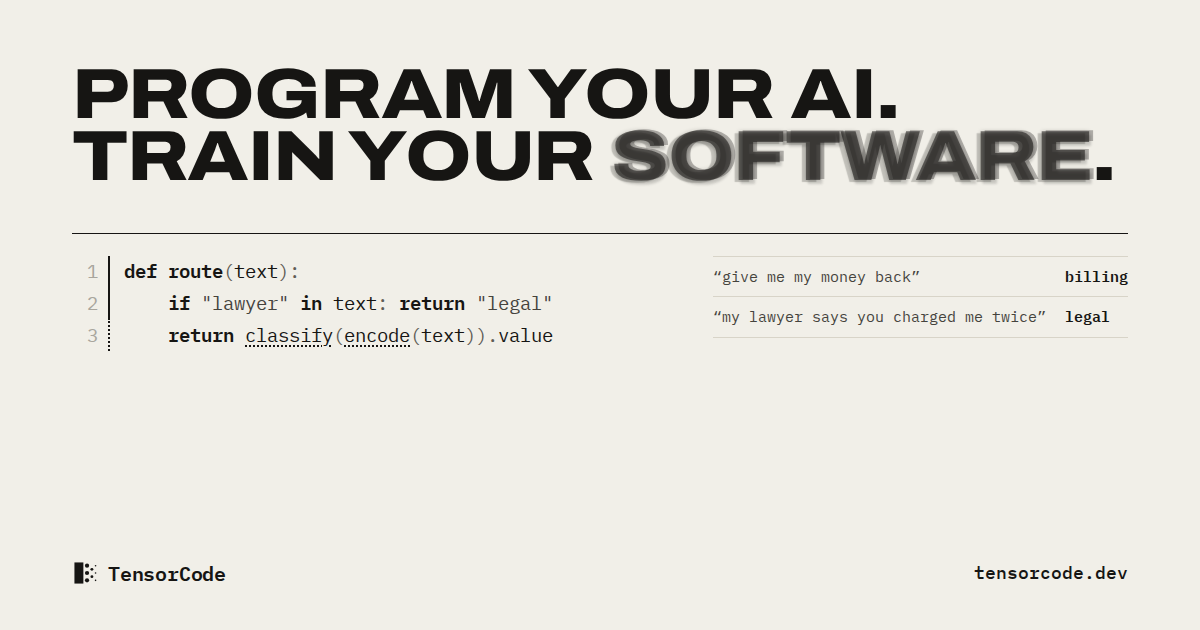
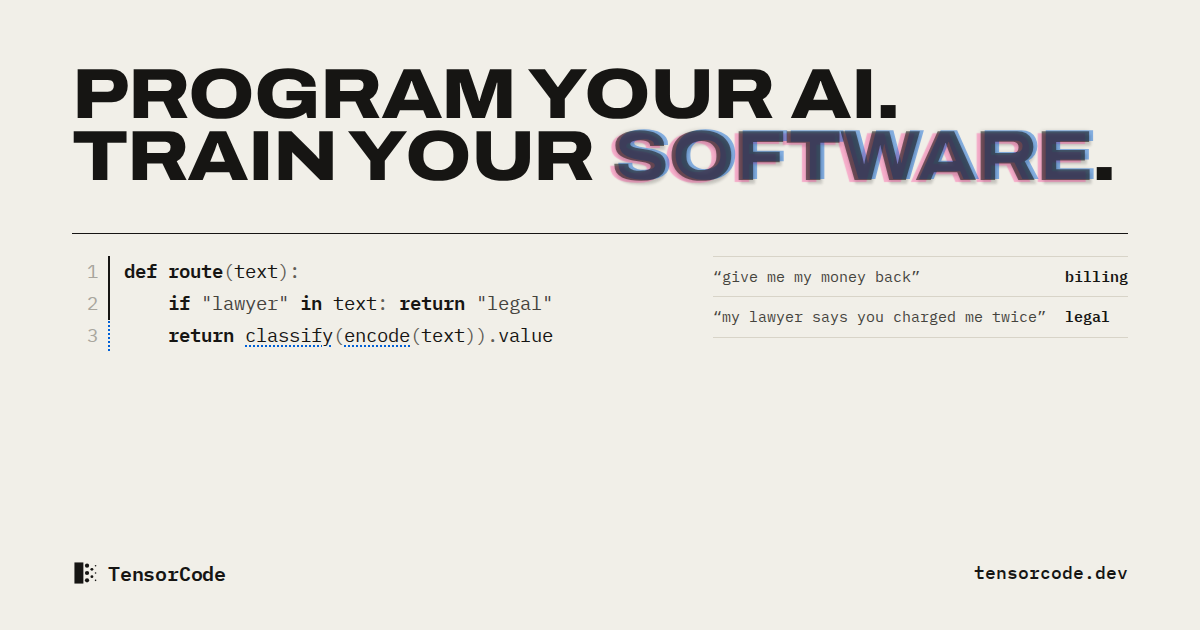
Print the site in risograph spot inks
Riso blue is the learned phase's ink (halftone fields, learned-name
underlines, uncertain candidates); fluorescent pink appears only as
misregistration in liquid type; vermilion still means training. Written
code stays black. The rules are in site/DESIGN.md, and the social image is
regenerated.

Changed region(s): [[0.4933, 0.181, 0.925, 0.3016]]

diff --git a/site/assets/home.css b/site/assets/home.css
@@ -5,7 +5,7 @@
      training = --signal, and only while an optimizer is running */
 
 :root {
-  --dots: radial-gradient(circle at center, var(--ink) 0 .9px, transparent 1.25px);
+  --dots: radial-gradient(circle at center, rgb(var(--learn-rgb)) 0 .9px, transparent 1.25px);
   --dots-size: 4px 4px;
   --code-size: 14px;
 }
@@ -17,8 +17,8 @@
 .phase {
   color: rgb(var(--ink-rgb) / calc(1 - var(--u) * .6));
   text-shadow:
-    calc(var(--u) * .075em) calc(var(--u) * -.018em) calc(var(--u) * .012em) rgb(var(--ink-rgb) / calc(var(--u) * .42)),
-    calc(var(--u) * -.085em) calc(var(--u) * .03em) calc(var(--u) * .02em) rgb(var(--ink-rgb) / calc(var(--u) * .3)),
+    calc(var(--u) * .075em) calc(var(--u) * -.018em) calc(var(--u) * .012em) rgb(var(--learn-rgb) / calc(var(--u) * .62)),
+    calc(var(--u) * -.085em) calc(var(--u) * .03em) calc(var(--u) * .02em) rgb(var(--ghost-rgb) / calc(var(--u) * .5)),
     calc(var(--u) * .03em) calc(var(--u) * .07em) calc(var(--u) * .05em) rgb(var(--ink-rgb) / calc(var(--u) * .22)),
     0 0 calc(var(--u) * .08em) rgb(var(--ink-rgb) / calc(var(--u) * .25));
   transition: --u .64s var(--ease-liquid);
@@ -100,7 +100,7 @@ code { font-size: .92em; }
 .code .n { font-variant-numeric: tabular-nums; }
 .code .f { font-weight: 600; }
 .code .p { color: var(--dim); }
-.code .l { text-decoration: underline dotted; text-decoration-thickness: 1.5px; text-underline-offset: 4px; }
+.code .l { text-decoration: underline dotted rgb(var(--learn-rgb)); text-decoration-thickness: 1.5px; text-underline-offset: 4px; }
 .code .val { color: var(--dim); }
 
 .was, .now { margin: 0 0 10px; font: 500 11px/1.3 var(--mono); letter-spacing: .08em; text-transform: uppercase; }
@@ -263,7 +263,7 @@ code { font-size: .92em; }
 .mover-table td { padding: 10px 0; border-bottom: 1px solid var(--rule); vertical-align: top; }
 .mover-table td:first-child { color: var(--ink-2); padding-right: 16px; }
 .mover-table td:last-child { width: 11ch; font-weight: 600; }
-.mover-table td.by-learned span { text-decoration: underline dotted; text-decoration-thickness: 1.5px; text-underline-offset: 4px; }
+.mover-table td.by-learned span { text-decoration: underline dotted rgb(var(--learn-rgb)); text-decoration-thickness: 1.5px; text-underline-offset: 4px; }
 .mover-table td.wrong span { color: var(--faint); text-decoration-line: line-through; text-decoration-style: solid; }
 .mover-table tfoot td { border-bottom: 0; border-top: 1px solid var(--ink); font-weight: 600; color: var(--ink); }
 @media (max-width: 960px) {
@@ -292,7 +292,7 @@ code { font-size: .92em; }
 }
 .ticket:focus-visible { border-bottom-color: var(--ink); background: var(--field); }
 .tokens { margin: 10px 0 0; min-height: 1.5em; font: 400 12px/1.5 var(--mono); display: flex; flex-wrap: wrap; gap: 2px 8px; }
-.tokens .known { color: var(--ink); text-decoration: underline dotted; text-underline-offset: 3px; }
+.tokens .known { color: var(--ink); text-decoration: underline dotted rgb(var(--learn-rgb)); text-underline-offset: 3px; }
 .tokens .unknown { color: var(--faint); font-style: italic; }
 .compare { display: grid; grid-template-columns: minmax(0, 1fr) minmax(0, 1.5fr); gap: 24px; margin-top: 28px; padding-top: 16px; border-top: 1px solid var(--rule); }
 .compare .solid-out { margin: 0; font: 600 26px/1.2 var(--mono); }
@@ -420,3 +420,8 @@ code { font-size: .92em; }
   #hero-code { --code-size: 12px; }
   .rules-code .ln.blocking::after { left: 23px; }
 }
+
+/* Spot colour on superposed values: while a value is uncertain its candidates print in
+   the learned ink; the one that wins sets in black. */
+.sup span { color: rgb(var(--learn-rgb)); }
+.sup span[style*="filter: none"] { color: var(--ink); }

diff --git a/site/assets/base.css b/site/assets/base.css
@@ -35,6 +35,9 @@
   --signal: #e0401b;
   --signal-ink: #ffffff;
   --field: rgb(var(--ink-rgb) / .07);
+  --learn-rgb: 0 96 214;          /* riso blue: the learned phase's ink */
+  --learn: rgb(var(--learn-rgb));
+  --ghost-rgb: 255 58 150;        /* fluorescent pink: misregistration in liquid type */
 
   /* Names the docs stylesheet uses. */
   --bg: var(--paper);
@@ -71,6 +74,8 @@
     --signal: #ff5a2d;
     --signal-ink: #0f0f0e;
     --field: rgb(var(--ink-rgb) / .08);
+    --learn-rgb: 92 160 255;
+    --ghost-rgb: 255 92 176;
     --surface: #141413;
     --surface-2: #121211;
     --warm-soft: rgb(255 90 45 / .12);
@@ -90,6 +95,8 @@
   --signal: #ff5a2d;
   --signal-ink: #0f0f0e;
   --field: rgb(var(--ink-rgb) / .08);
+  --learn-rgb: 92 160 255;
+  --ghost-rgb: 255 92 176;
   --surface: #141413;
   --surface-2: #121211;
   --warm-soft: rgb(255 90 45 / .12);

diff --git a/site/assets/home/extrap.js b/site/assets/home/extrap.js
@@ -64,9 +64,9 @@ export function init(figure) {
       GRID.forEach((x, i) => ctx.lineTo(X(x), Y(Math.min(Y_MAX, hi[i] + 1.2))));
       for (let i = GRID.length - 1; i >= 0; i -= 1) ctx.lineTo(X(GRID[i]), Y(Math.max(-5, lo[i] - 1.2)));
       ctx.closePath();
-      ctx.fillStyle = dotPattern(ctx, c.ink, 4, 0.9);
+      ctx.fillStyle = dotPattern(ctx, c.learn, 4, 0.9);
       ctx.fill();
-      ctx.setLineDash([1.5, 3]); ctx.strokeStyle = c.inkA(0.75); ctx.lineWidth = 1.2;
+      ctx.setLineDash([1.5, 3]); ctx.strokeStyle = c.learnA(0.85); ctx.lineWidth = 1.2;
       for (const cv of state.curves) {
         ctx.beginPath();
         GRID.forEach((x, i) => ctx.lineTo(X(x), Y(Math.max(-5, Math.min(Y_MAX + 5, cv[i])))));

diff --git a/site/assets/home/code.js b/site/assets/home/code.js
@@ -157,6 +157,8 @@ export function palette() {
     ink: `rgb(${rgb})`, inkA: (a) => `rgba(${rgb},${a})`,
     paper: style.getPropertyValue('--paper').trim(),
     signal: style.getPropertyValue('--signal').trim(),
+    learn: `rgb(${style.getPropertyValue('--learn-rgb').trim().split(/\s+/).join(',')})`,
+    learnA: (a) => `rgba(${style.getPropertyValue('--learn-rgb').trim().split(/\s+/).join(',')},${a})`,
     faint: style.getPropertyValue('--faint').trim(),
     rule: style.getPropertyValue('--rule').trim(),
     mono: '"IBM Plex Mono", ui-monospace, monospace',

diff --git a/site/DESIGN.md b/site/DESIGN.md
@@ -9,13 +9,14 @@ phase change between them, and the site's motion mostly shows that change.
 
 | | Written (solid) | Learned (liquid) | Training (signal) |
 |---|---|---|---|
-| Mark | Solid ink: a 2px bar, a filled square, a hairline | Halftone: a dot field in ink, never a new hue | `--signal` vermilion, and nothing else |
+| Mark | Solid ink: a 2px bar, a filled square, a hairline | Halftone: a dot field printed in `--learn` (riso blue) | `--signal` vermilion, and nothing else |
 | Values | One typeset value | Every possible value, overlaid with opacity equal to its probability. Uncertainty adds blur and offset (`--u`) | Loss figures, gradient pulses, "supervise" marks |
 | Motion | Discrete. It snaps, types one character per frame, or steps | Continuous. It eases (`--ease-liquid`), settles, and stops moving once it converges | Travels backward along the gutter, only through lines that can learn |
 | Code gutter | `│` solid bar | `┊` dotted bar | a pulse running up the bar |
 
-- Colour never tells written from learned; form does. The one accent means that
-  training is happening right now.
+- Form tells written from learned; colour only reinforces it. The palette is
+  risograph spot inks: black for written, blue for learned, fluorescent pink only as
+  misregistration in liquid type, and vermilion only while training runs.
 - A value that has converged is still. Nothing moves unless it is computing.
 - A transition shows the boundary moving: solid text melts into superposition, or
   a superposition collapses into one solid value.
@@ -47,8 +48,17 @@ phase change between them, and the site's motion mostly shows that change.
 
 ## Colour
 
-Light is warm paper with near-black ink; dark is carbon with bone ink. The tokens
-are in `assets/base.css`. There are no gradients, glows or shadows.
+Light is warm paper with near-black ink; dark is carbon with bone ink. Three spot
+inks sit on top, each with one job:
+
+| Token | Ink | Used for |
+|---|---|---|
+| `--learn` | riso blue | halftone fields, learned-name underlines, uncertain candidates, the first ghost of liquid type |
+| `--ghost-rgb` | fluorescent pink | the second ghost of liquid type (misregistration), nothing else |
+| `--signal` | vermilion | training in progress: loss, gradient pulses, `supervise`/`fit` lines |
+
+A converged value sets in black. The tokens are in `assets/base.css`. There are no
+gradients, glows or shadows.
 
 ## Motion timing
 
